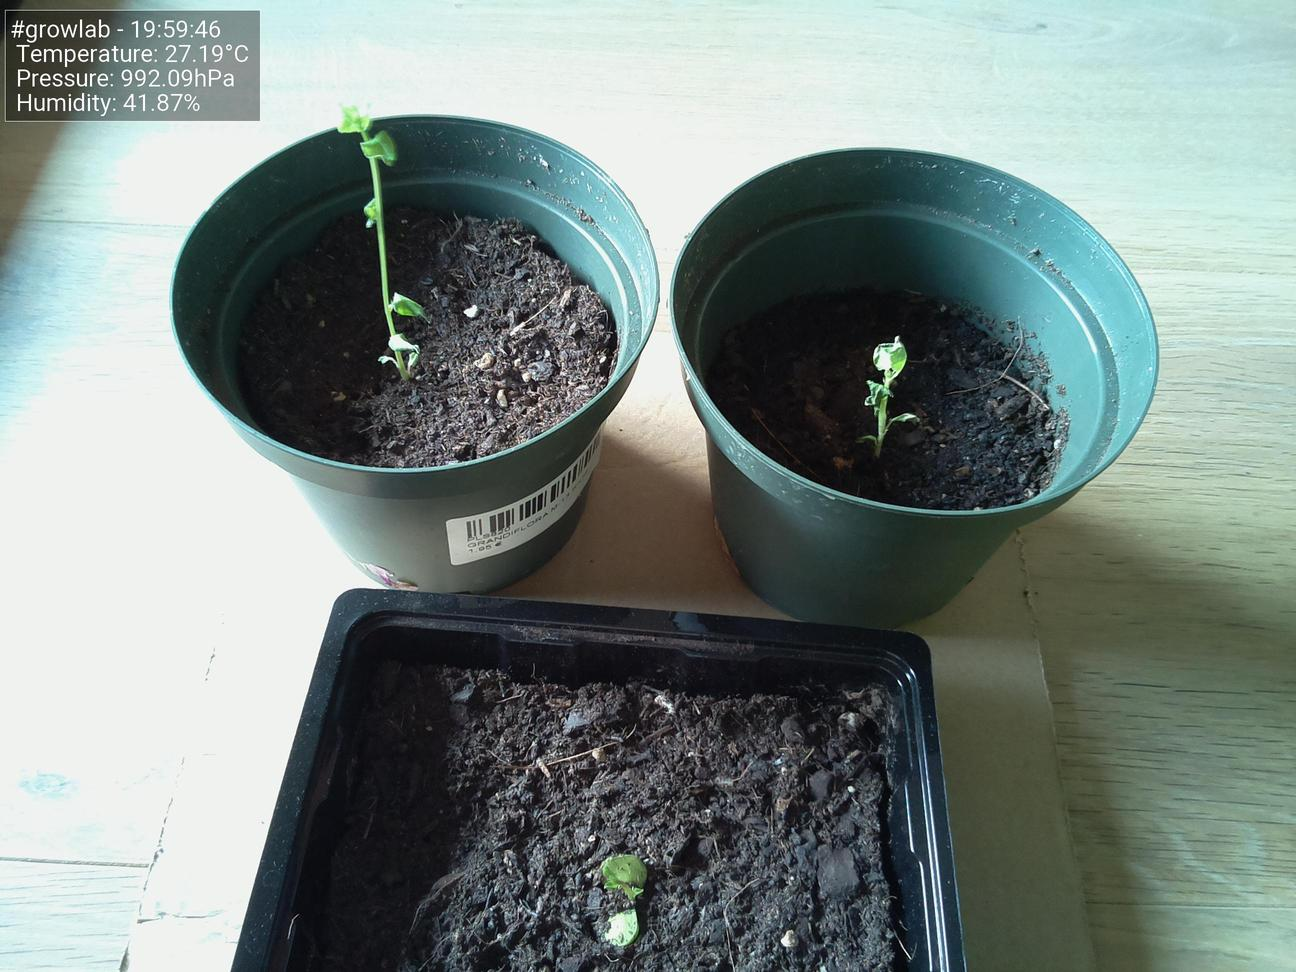
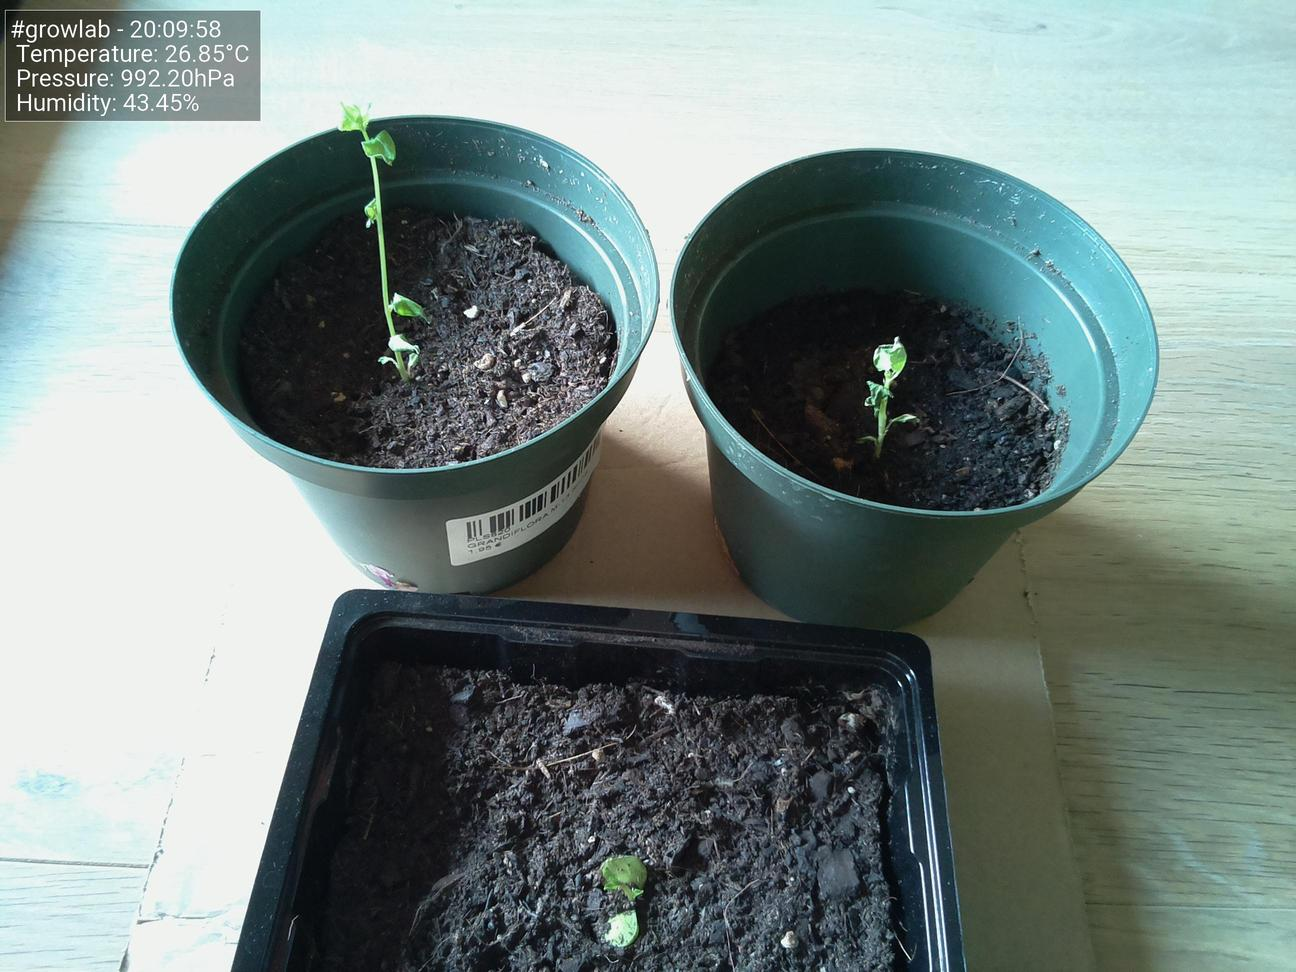
Update images at Wed 16 Jun 20:10:03 CEST 2021

diff --git a/docs/index.html b/docs/index.html
@@ -47,19 +47,19 @@
                         <tbody>
                             <tr>
                                 <td>Time</td>
-                                <td>19:59:46</td>
+                                <td>20:09:58</td>
                             </tr>
                             <tr>
                                 <td>Temperature</td>
-                                <td>27.19°C</td>
+                                <td>26.85°C</td>
                             </tr>
                             <tr>
                                 <td>Humidity</td>
-                                <td>41.87%</td>
+                                <td>43.45%</td>
                             </tr>
                             <tr>
                                 <td>Pressure</td>
-                                <td>992.09hPa</td>
+                                <td>992.20hPa</td>
                             </tr>
                         </tbody>
                     </table>
@@ -67,7 +67,7 @@
 
                 <h5>Latest image</h5>
                 <div style="width: 85%;">
-                            <img class="figure-img img-fluid rounded" src="./preview.jpg?uid=1623866390.6997716">
+                            <img class="figure-img img-fluid rounded" src="./preview.jpg?uid=1623867002.8549988">
                 </div>
             </div>
         </div>
